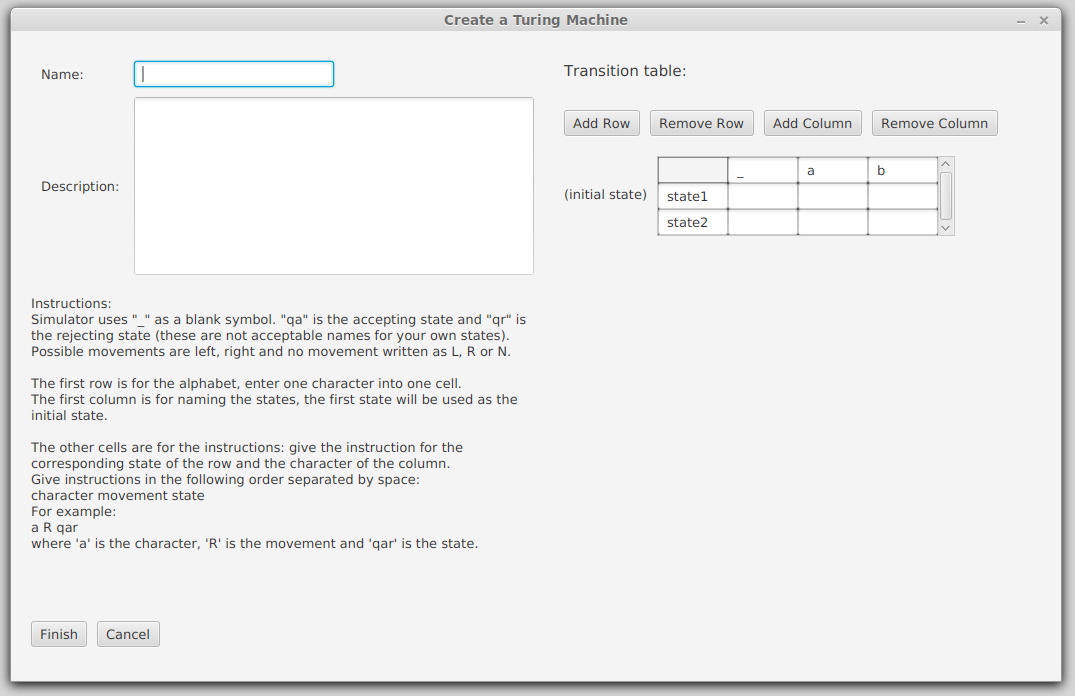
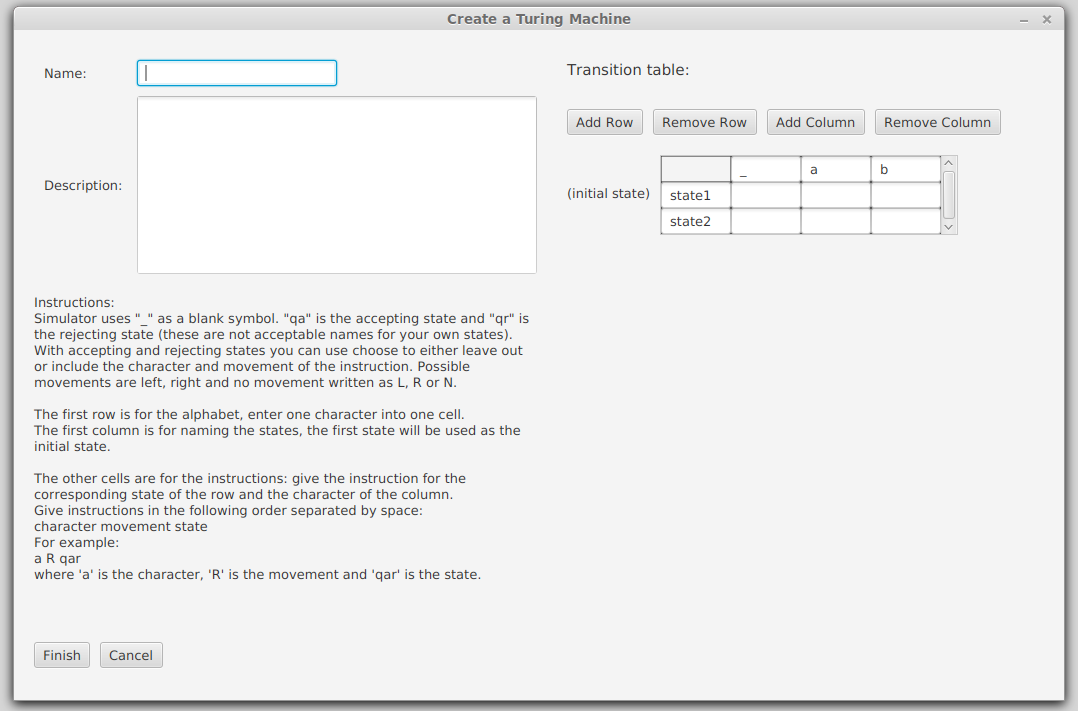
Added more graphs and deleted previous ones.

diff --git a/TuringMachineSimulator/src/main/java/simulator/ui/UI.java b/TuringMachineSimulator/src/main/java/simulator/ui/UI.java
@@ -41,7 +41,7 @@ public class UI extends Application {
     private final int mainWindowWidth = 1105;
     private final int mainWindowHeight = 450;
     private final int creationWindowWidth = 1050;
-    private final int creationWindowHeight = 650;
+    private final int creationWindowHeight = 670;
     private final int drawerFontSize = 14;
     private final int tapeLength = 49;
     private double[] headX = new double[]{(canvasWidth/2) + 2, (canvasWidth/2) + 9, (canvasWidth/2) + 16};
@@ -284,6 +284,7 @@ public class UI extends Application {
         //instructions
         Label instructions = new Label("Instructions:"
                             + "\nSimulator uses \"_\" as a blank symbol. \"qa\" is the accepting state and \"qr\" is the rejecting state (these are not acceptable names for your own states). "
+                            + "With accepting and rejecting states you can use choose to either leave out or include the character and movement of the instruction. "
                             + "Possible movements are left, right and no movement written as L, R or N.\n" 
                             + "\nThe first row is for the alphabet, enter one character into one cell."
                             + "\nThe first column is for naming the states, the first state will be used as the initial state.\n"
@@ -370,7 +371,7 @@ public class UI extends Application {
         Label error = new Label("");
         error.setTextFill(Color.RED);
         error.setMaxWidth(500);
-        error.setPrefHeight(50);
+        error.setPrefHeight(40);
         error.setWrapText(true);
         HBox finishCancelbuttons = new HBox();
         finishCancelbuttons.setSpacing(10);

diff --git a/TuringMachineSimulator/src/main/java/simulator/domain/Handler.java b/TuringMachineSimulator/src/main/java/simulator/domain/Handler.java
@@ -200,8 +200,8 @@ public class Handler {
      * @see simulator.domain.Simulator#simulate(java.lang.String, int, int) 
      * @return A string representing the result of the simulation.
      */
-    public String simulate(String input, long limit, long tapeLimit) {
-        int result = sakke.simulate(input, limit, tapeLimit);
+    public String simulate(String input, long stepLimit, long tapeLimit) {
+        int result = sakke.simulate(input, stepLimit, tapeLimit);
         switch (result) {
             case 1:
                 return "Accepted";
